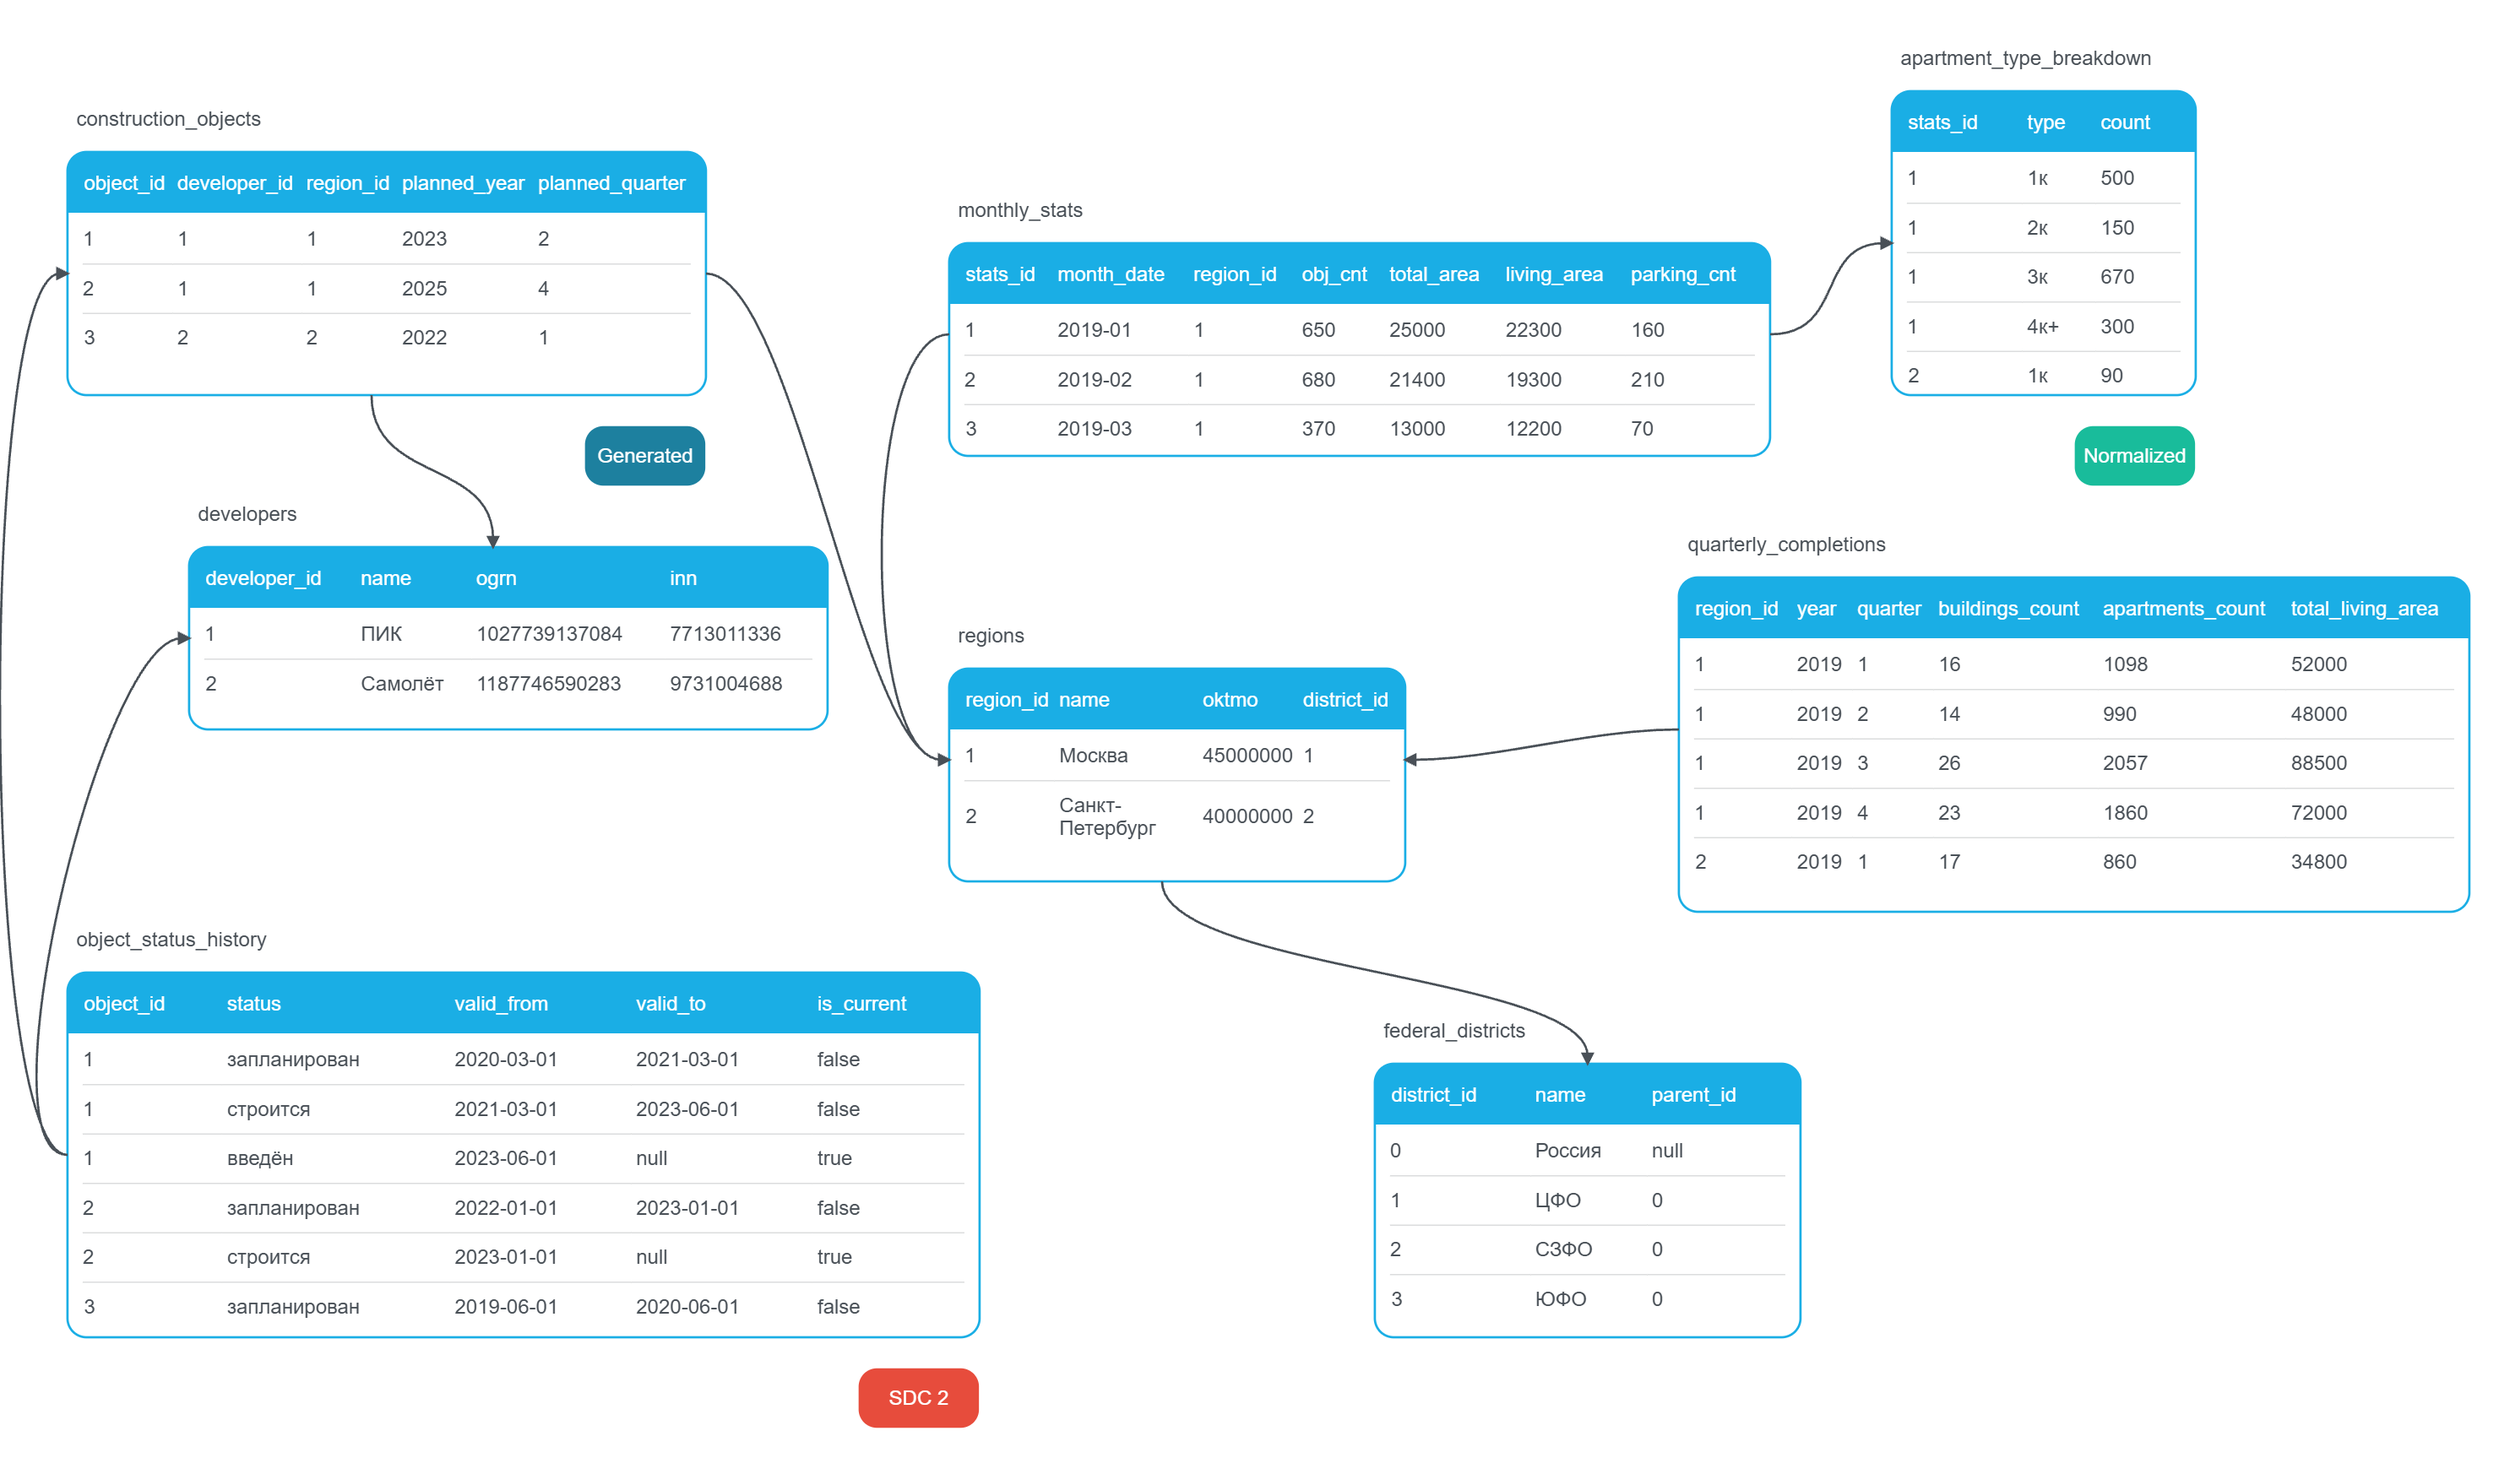
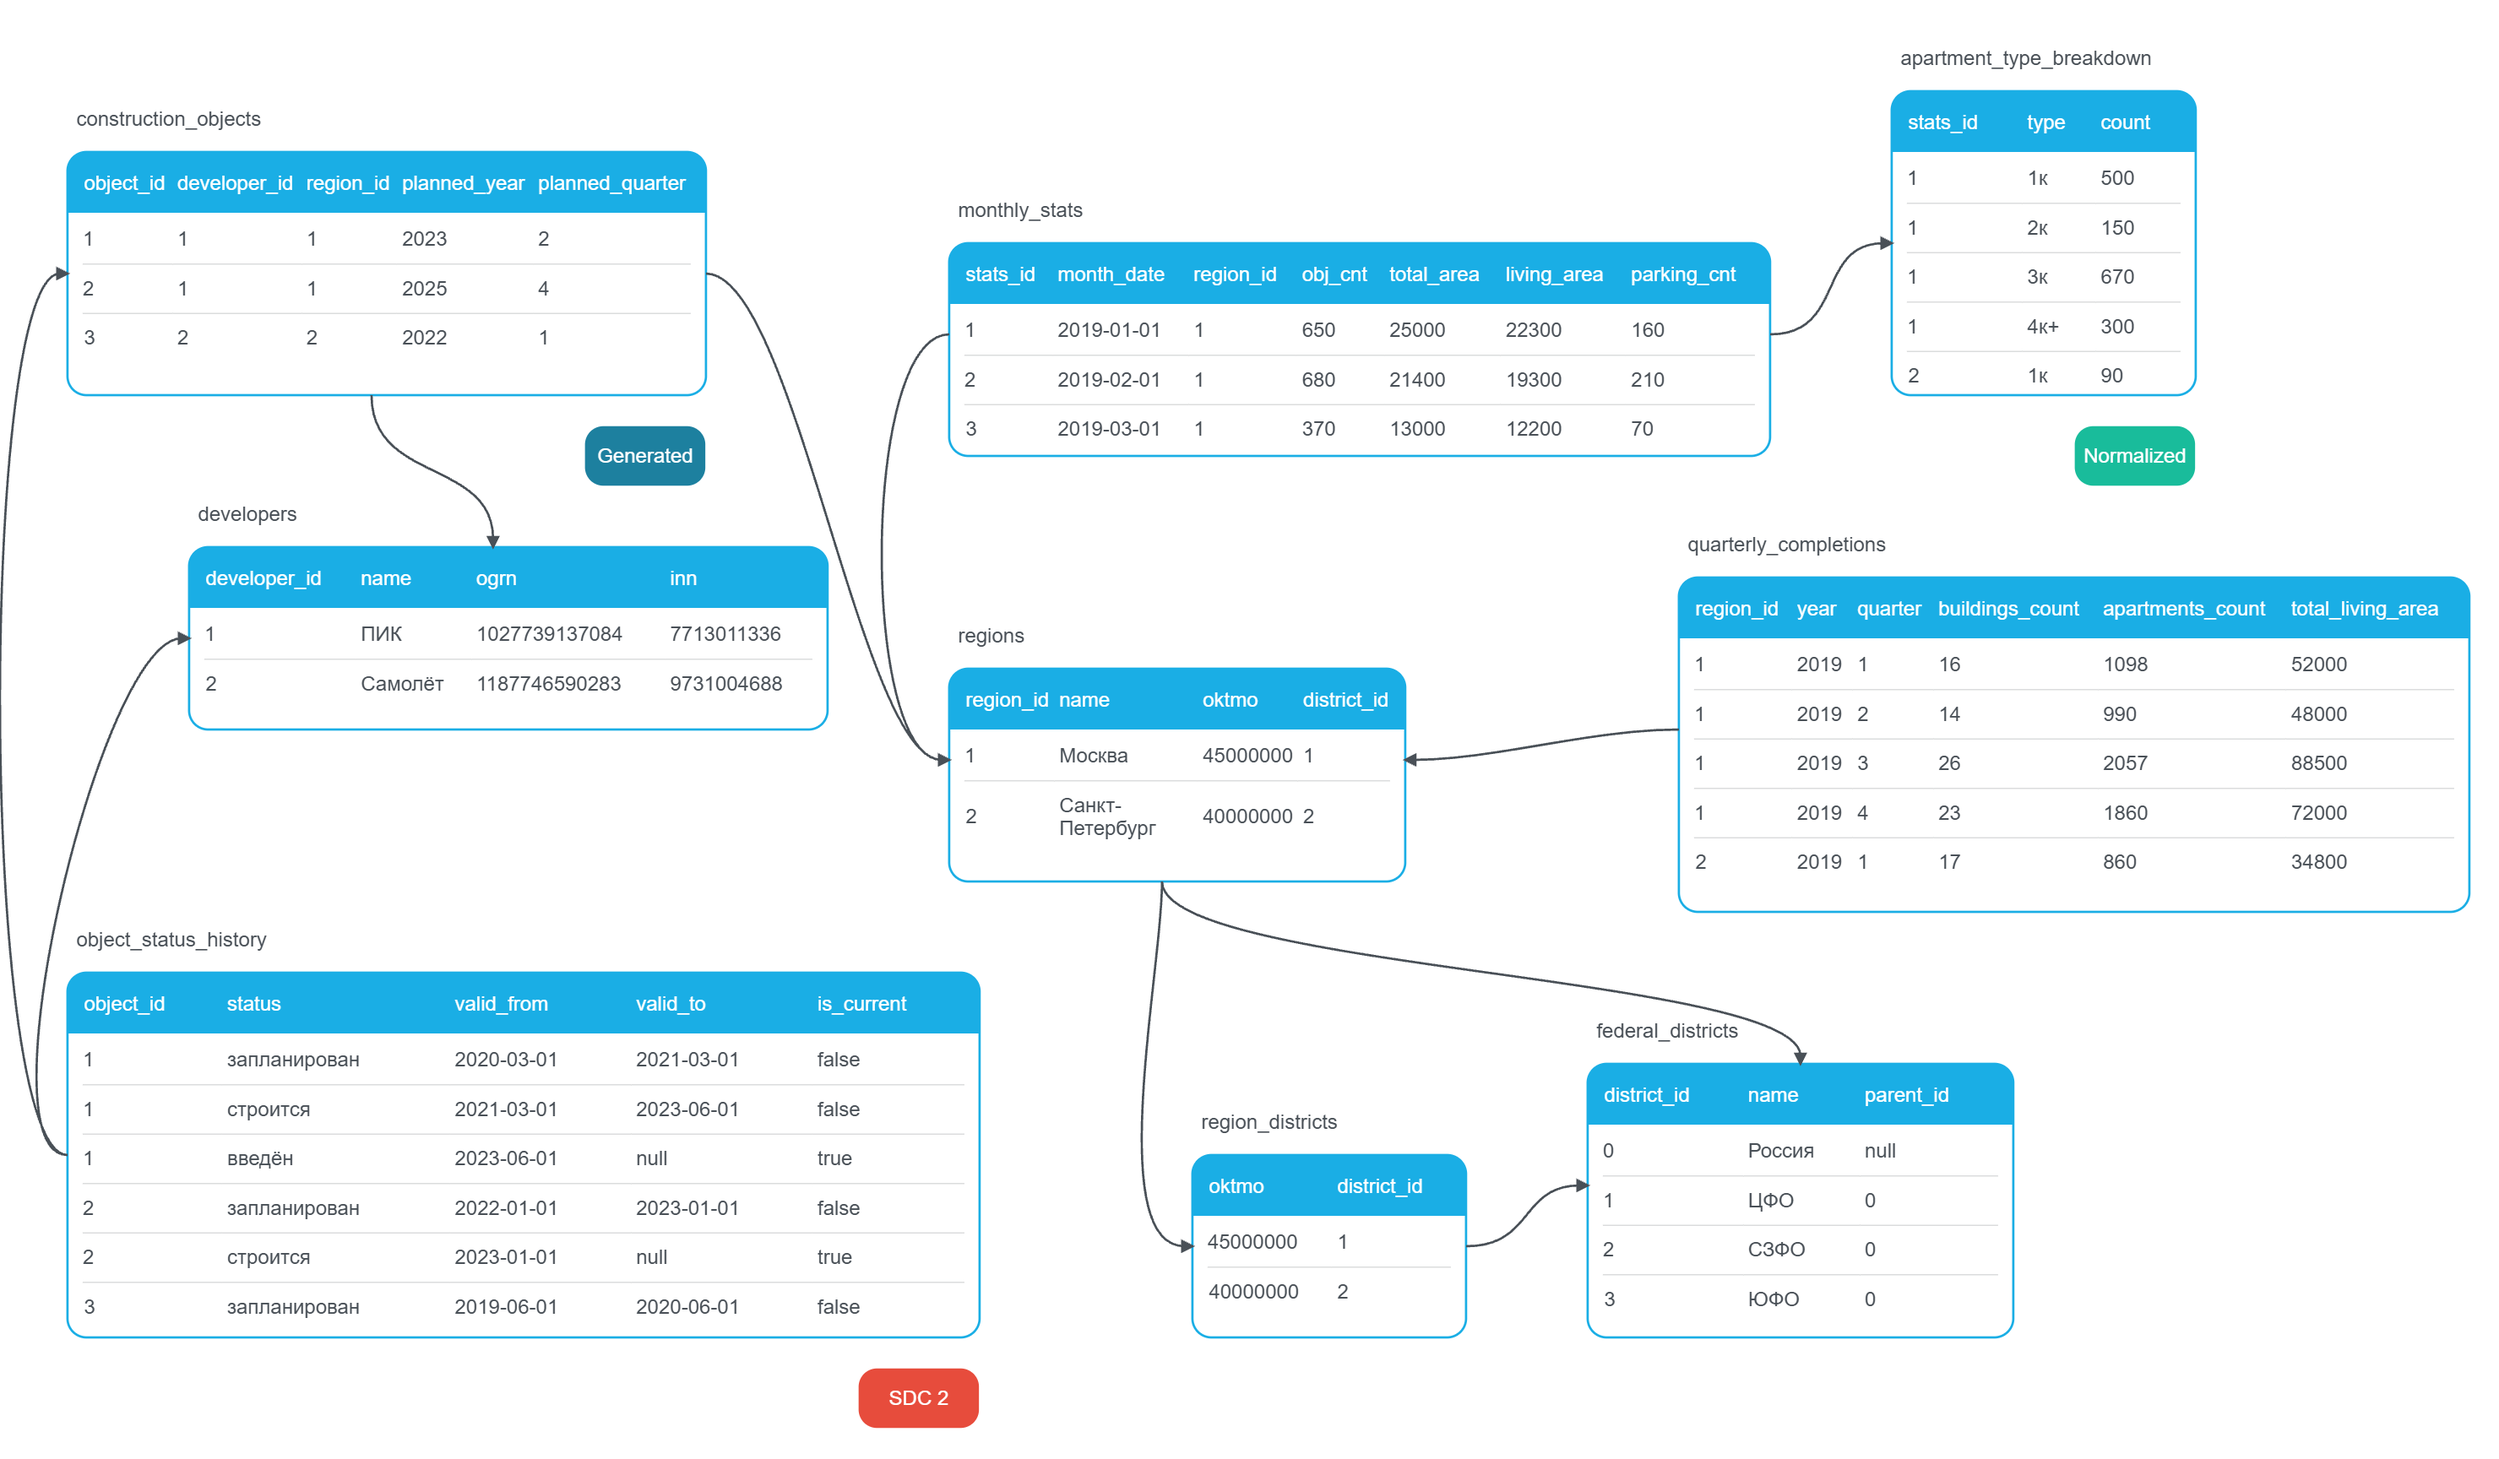
update README and etc.

diff --git a/scripts/python/monthly_stats&breakdown.py b/scripts/python/monthly_stats&breakdown.py
@@ -11,7 +11,7 @@ monthly_stats = monthly_stats.rename(columns={'month_dt': 'month_date', 'elem_pa
 monthly_stats['stats_id'] = monthly_stats.index + 1
 
 apt = monthly_stats.melt(
-    id_vars=['stats_id'], value_vars=['elem_1k_cnt', 'elem_2k_cnt', 'elem_3k_cnt', 'elem_4k_cnt'], var_name='type', value_name='count'
+    id_vars=['stats_id'], value_vars=['elem_1k_cnt', 'elem_2k_cnt', 'elem_3k_cnt', 'elem_4k_cnt'], var_name='type', value_name='apt_count'
 )
 apt['type'] = apt['type'].map({
     'elem_1k_cnt': '1к', 'elem_2k_cnt': '2к', 'elem_3k_cnt': '3к', 'elem_4k_cnt': '4к+'

diff --git a/README.md b/README.md
@@ -4,5 +4,38 @@
 
 ## Логическая модель
 Всего реализовано 8 связанных таблиц. Ниже прикреплено визуальное представление проекта.
-<img width="2959" height="1727" alt="logical_model" src="https://github.com/user-attachments/assets/2515699c-6194-489c-880b-ecf33311947a" />
+![alt text](docs/logical_model.png)
 
+
+## Описание таблиц
+
+### developers
+Таблица *developers* содержит информацию о застройщике: суррогатный id, название, ОГРН, ИНН. 
+Столбец id был создан, потому что данные взяты из нескольких источников, где названия застройщиков указаны неточно или слишком точно (например, с указанием региона). С помощью этого ключа позже можно будет упорядочить застройщиков и сделать данные максимально точными, это является одним из путей развития проекта. Пока что, если застройщик не был найден в таблице developers по имени, связанные данные не вставлялись в итоговые таблицы.
+
+
+### regions
+Таблица *regions* содержит информацию о регионе - суррогатный id, его название, код ОКТМО, индекс федерального округа. Здесь искусственный ключ нужен по той же причине - в разных таблицах даже одного источника регион задается по-разному (код региона, код ОКТМО, название в разных форматах), поэтому id является связующим звеном между большинством таблиц.
+
+### federal_districts 
+Небольшая таблица *federal_districts* написана вручную: в ней есть только id и название федерального округа. Она создана, можно сказать, искусственно, чтобы закрыть требование к рекурсвиным вызовам. 
+
+### region_districts
+Таблица *region_districts* содержит в себе код ОКТМО и номер ФО, чтобы корретно сопоставить регион и его округ. 
+
+
+### construction_objects
+Таблица *construction_objects* сгенерирована самостоятельно на основе таблицы developers. В ней содержится информация о запланированных объектах строительства. Из исходной таблицы data_housing_construction_dev.csv были выбраны уникальные пары застройщик-регион и, основываясь на них, составлены столбцы planned_year и planned_quarter - плановый год и квартал сдачи объекта. 
+
+### object_status_history
+Таблица *object_status_history* представляет из себя форму SDC 2. В ней отображены статусы строительства различных объектов. Она генерировалась на основе construction_objects, даты наала планирования, строительства и сдачи тоже генерировались рандомно. 
+
+### monthly_stats
+
+Таблица *monthly_stats* отображает ежемесячную статистику запусков объектов в разрезе субъектов России. Туда включены основные показатели: дата, id региона, количество запущенных квартир, общая жилая площадь и количество парковочных мест в новых объектах. Каждой записи в таблице присвоен уникальный номер stats_id: он связывает эту таблицу с *apartment_type_breakdown* -  разбивкой записей по типу квартиры.
+
+### apartment_type_breakdown
+Таблица *apartment_type_breakdown* является продуктом нормализации формы 2 изначальной таблицы с месячной статистикой по региону. По ней можно отследить какое количество какого типа квартир было запущено исходя из stats_id.
+
+### quarterly_completions
+Таблица *quarterly_completions* содержит похожую информацию на ту, что лежит в *montly_stats*, но идет по кварталам. Помимо этого там содержится buildings_count - количество запущенных объектов в квартале. Это может пригодиться лдля отслеживания динамики строительства по кварталам.
